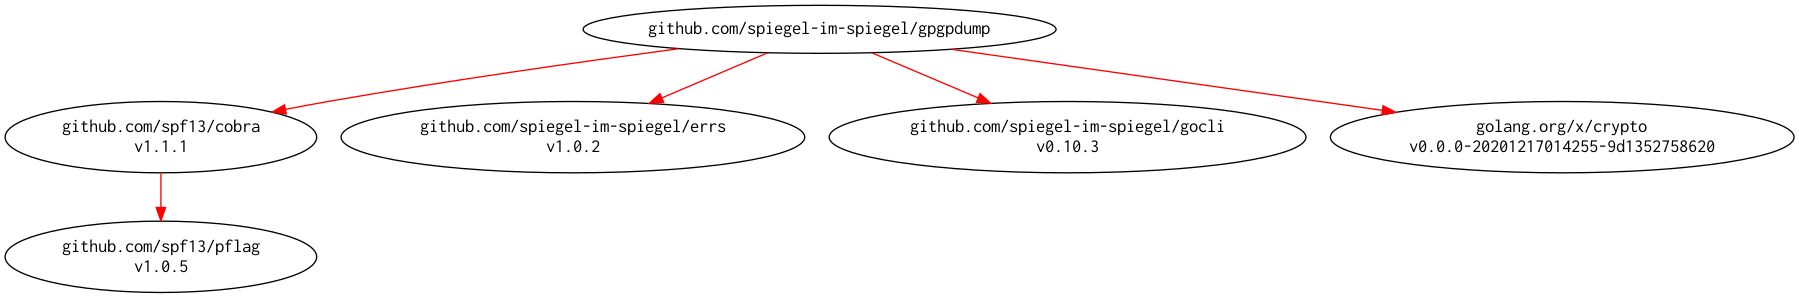
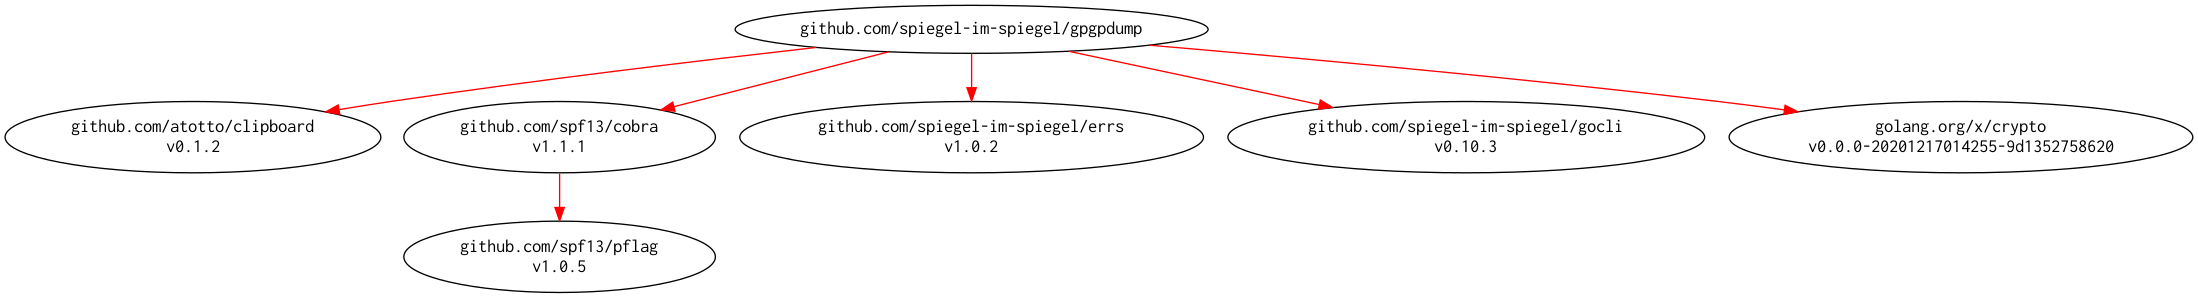
Add clipboard option

diff --git a/facade/facade.go b/facade/facade.go
@@ -10,6 +10,8 @@ import (
 	"github.com/spiegel-im-spiegel/errs"
 	"github.com/spiegel-im-spiegel/gocli/exitcode"
 	"github.com/spiegel-im-spiegel/gocli/rwi"
+	"github.com/spiegel-im-spiegel/gpgpdump/ecode"
+	"github.com/spiegel-im-spiegel/gpgpdump/facade/clipboard"
 	"github.com/spiegel-im-spiegel/gpgpdump/parse"
 	"github.com/spiegel-im-spiegel/gpgpdump/parse/context"
 	"github.com/spiegel-im-spiegel/gpgpdump/parse/result"
@@ -25,6 +27,7 @@ var (
 var (
 	versionFlag bool //version flag
 	jsonFlag    bool //output with JSON format
+	cbFlag      bool //input from clipboard
 	debugFlag   bool //debug flag
 	indentSize  int
 	filePath    string
@@ -33,7 +36,9 @@ var (
 //newRootCmd returns cobra.Command instance for root command
 func newRootCmd(ui *rwi.RWI, args []string) *cobra.Command {
 	rootCmd := &cobra.Command{
-		Use: Name,
+		Use:   Name,
+		Short: "OpenPGP packet visualizer",
+		Long:  "OpenPGP (RFC 4880) packet visualizer by golang.",
 		RunE: func(cmd *cobra.Command, args []string) error {
 			//options options
 			if versionFlag {
@@ -42,14 +47,27 @@ func newRootCmd(ui *rwi.RWI, args []string) *cobra.Command {
 			cxt := parseContext(cmd)
 
 			//open PGP file
-			r := ui.Reader()
-			if len(filePath) > 0 {
+			if cbFlag && len(filePath) > 0 {
+				return debugPrint(ui, errs.Wrap(ecode.ErrClipboard))
+			}
+			var r io.Reader
+			switch {
+			case cbFlag:
+				cb, err := clipboard.NewReader()
+				if err != nil {
+					return debugPrint(ui, errs.Wrap(err))
+				}
+				r = cb
+				cxt.Set(context.ARMOR, true) //ASCII armor text only
+			case len(filePath) > 0:
 				file, err := os.Open(filePath)
 				if err != nil {
 					return debugPrint(ui, errs.Wrap(err))
 				}
 				defer file.Close()
 				r = file
+			default:
+				r = ui.Reader()
 			}
 
 			//options OpenPGP packets
@@ -70,6 +88,7 @@ func newRootCmd(ui *rwi.RWI, args []string) *cobra.Command {
 	}
 	rootCmd.Flags().BoolVarP(&versionFlag, "version", "v", false, "output version of "+Name)
 	rootCmd.Flags().StringVarP(&filePath, "file", "f", "", "path of OpenPGP file")
+	rootCmd.Flags().BoolVarP(&cbFlag, "clipboard", "", false, "input from clipboard (ASCII armor text only)")
 	rootCmd.PersistentFlags().BoolVarP(&jsonFlag, "json", "j", false, "output with JSON format")
 	rootCmd.PersistentFlags().IntVarP(&indentSize, "indent", "", 0, "indent size for output text")
 	rootCmd.PersistentFlags().BoolP(context.ARMOR.String(), "a", false, "accepts ASCII armor text only")

diff --git a/facade/clipboard/clipboard.go b/facade/clipboard/clipboard.go
@@ -1,0 +1,33 @@
+package clipboard
+
+import (
+	"io"
+	"strings"
+
+	cpbd "github.com/atotto/clipboard"
+	"github.com/spiegel-im-spiegel/errs"
+)
+
+//NewReader returns string stream from clipboard
+func NewReader() (io.Reader, error) {
+	s, err := cpbd.ReadAll()
+	if err != nil {
+		return nil, errs.Wrap(err)
+	}
+	return strings.NewReader(s), err
+}
+
+/* Copyright 2020 Spiegel
+ *
+ * Licensed under the Apache License, Version 2.0 (the "License");
+ * you may not use this file except in compliance with the License.
+ * You may obtain a copy of the License at
+ *
+ * 	http://www.apache.org/licenses/LICENSE-2.0
+ *
+ * Unless required by applicable law or agreed to in writing, software
+ * distributed under the License is distributed on an "AS IS" BASIS,
+ * WITHOUT WARRANTIES OR CONDITIONS OF ANY KIND, either express or implied.
+ * See the License for the specific language governing permissions and
+ * limitations under the License.
+ */

diff --git a/facade/github.go b/facade/github.go
@@ -3,14 +3,12 @@ package facade
 import (
 	"bytes"
 	"context"
-	"errors"
 	"os"
 
 	"github.com/spf13/cobra"
 	"github.com/spiegel-im-spiegel/errs"
 	"github.com/spiegel-im-spiegel/gocli/rwi"
 	"github.com/spiegel-im-spiegel/gocli/signal"
-	"github.com/spiegel-im-spiegel/gpgpdump/ecode"
 	"github.com/spiegel-im-spiegel/gpgpdump/fetch"
 	"github.com/spiegel-im-spiegel/gpgpdump/github"
 	"github.com/spiegel-im-spiegel/gpgpdump/parse"
@@ -50,9 +48,6 @@ func newGitHubCmd(ui *rwi.RWI) *cobra.Command {
 				keyid,
 			)
 			if err != nil {
-				if errors.Is(err, ecode.ErrArmorText) {
-					return debugPrint(ui, ui.WriteFrom(bytes.NewReader(resp)))
-				}
 				return debugPrint(ui, err)
 			}
 			if rawFlag {

diff --git a/ecode/ecode.go b/ecode/ecode.go
@@ -19,6 +19,7 @@ const (
 	ErrHTTPStatus
 	ErrEmptyKeyServer
 	ErrTooLarge
+	ErrClipboard
 )
 
 var errMessage = map[ECode]string{
@@ -35,6 +36,7 @@ var errMessage = map[ECode]string{
 	ErrEmptyKeyServer: "empty name of key serve",
 	ErrHTTPStatus:     "bad HTTP(S) status",
 	ErrTooLarge:       "too laege decompressed data",
+	ErrClipboard:       "cannot set --clipborad and --file options at onece",
 }
 
 func (e ECode) Error() string {

diff --git a/ecode/ecode_test.go b/ecode/ecode_test.go
@@ -24,7 +24,8 @@ func TestNumError(t *testing.T) {
 		{err: ErrEmptyKeyServer, str: "empty name of key serve"},
 		{err: ErrHTTPStatus, str: "bad HTTP(S) status"},
 		{err: ErrTooLarge, str: "too laege decompressed data"},
-		{err: ECode(14), str: "unknown error (14)"},
+		{err: ErrClipboard, str: "cannot set --clipborad and --file options at onece"},
+		{err: ECode(15), str: "unknown error (15)"},
 	}
 
 	for _, tc := range testCases {

diff --git a/facade/hkp.go b/facade/hkp.go
@@ -3,7 +3,6 @@ package facade
 import (
 	"bytes"
 	"context"
-	"errors"
 	"os"
 
 	"github.com/spf13/cobra"
@@ -68,9 +67,6 @@ func newHkpCmd(ui *rwi.RWI) *cobra.Command {
 				userID,
 			)
 			if err != nil {
-				if errors.Is(err, ecode.ErrArmorText) {
-					return debugPrint(ui, ui.WriteFrom(bytes.NewReader(resp)))
-				}
 				return debugPrint(ui, err)
 			}
 			if rawFlag {

diff --git a/README.md b/README.md
@@ -26,6 +26,8 @@ See [latest release](https://github.com/spiegel-im-spiegel/gpgpdump/releases/lat
 
 ```
 $ gpgpdump -h
+OpenPGP (RFC 4880) packet visualizer by golang.
+
 Usage:
   gpgpdump [flags]
   gpgpdump [command]
@@ -40,6 +42,7 @@ Available Commands:
 Flags:
   -a, --armor         accepts ASCII armor text only
   -c, --cert          dumps attested certification in signature packets (tag 2)
+      --clipboard     input from clipboard (ASCII armor text only)
       --debug         for debug
   -f, --file string   path of OpenPGP file
   -h, --help          help for gpgpdump
